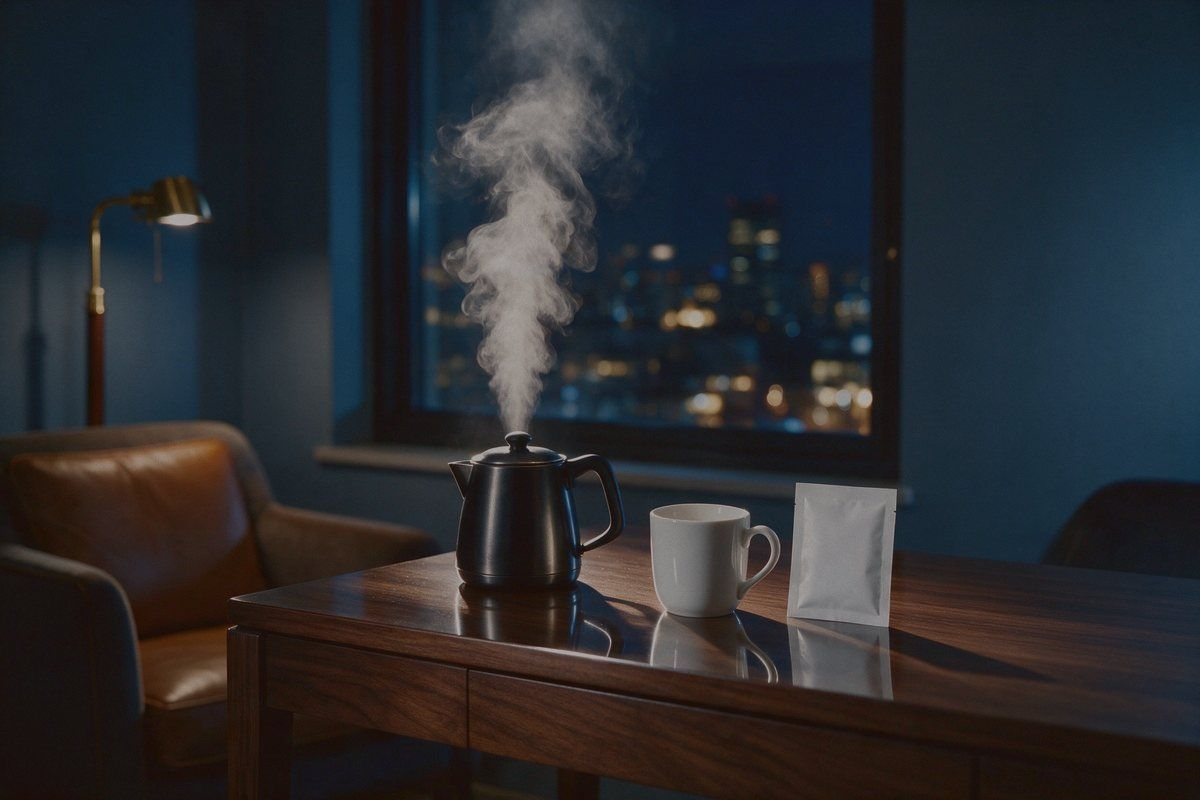
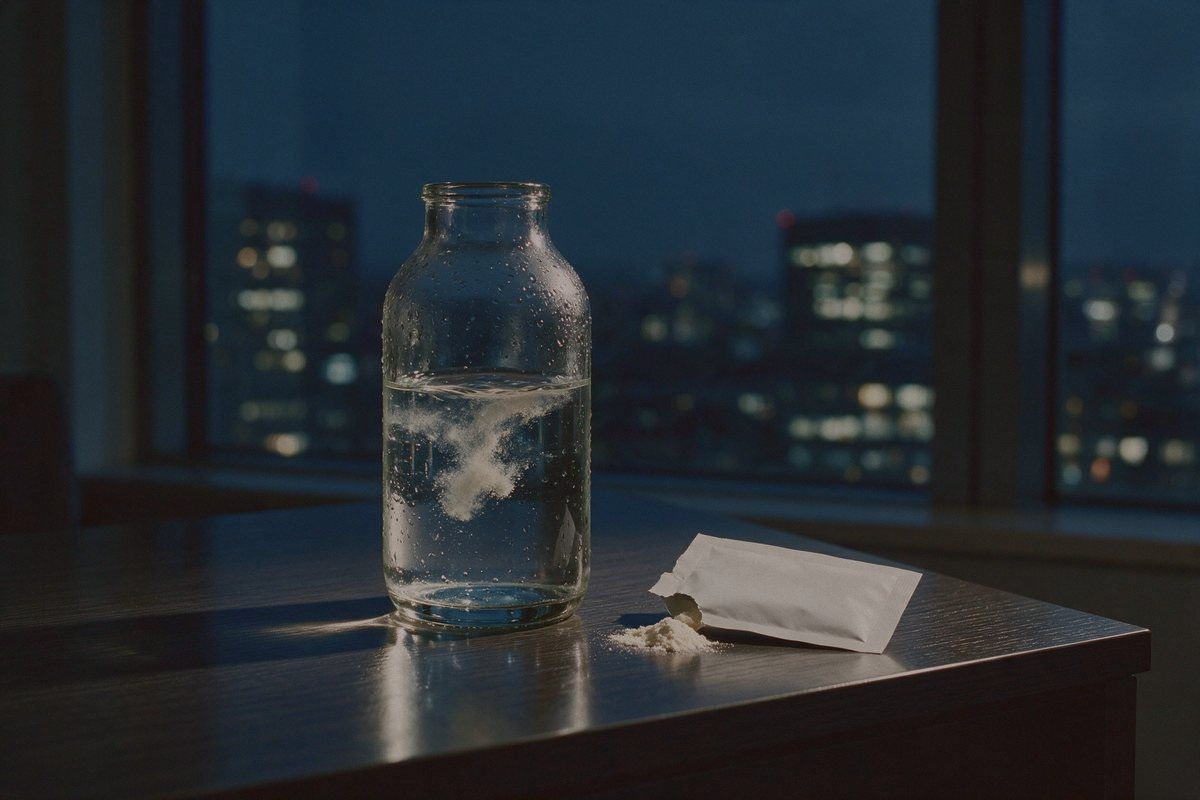
Protein does not need hot water. Remove the kettle and everything behind it
Namrata caught a product error, not a design one. Whey isolate clumps and
denatures in hot water; protein mixes into cold water, milk or a smoothie. A
kettle in a protein section tells a category buyer we do not understand our own
product, which is an expensive thing to say on a page arguing that we own the
manufacturing.

The kettle image is replaced with a bottle of cold water and a torn sachet, the
powder dissolving. The nurse on the long shift is now shaking a water bottle
rather than pouring into a paper cup, which read as coffee.

The copy had the same fault in three more places. A kettle and a mug is the
whole preparation is now a bottle of water, no kitchen, no blender, no shaker,
ten seconds, which is both true and a better claim than the one it replaces.
The unflavoured SKU disappeared into coffee, oats or a smoothie and now
disappears into cold water, milk or a smoothie. The Coffee SKU is Cold brew.

Swept the whole document for kettle, hot water, boiling and steam: none left.

diff --git a/index.html b/index.html
@@ -889,7 +889,7 @@ table.t tr.hi td{font-weight:600; color:var(--ink)}
       <div class="arc"><img loading="lazy" decoding="async" src="img/ms-carry-1.jpg" alt="A sachet slipped into a pocket"></div>
     </div>
     <div class="arccap">
-      <div><b>A kettle and a mug</b>That is the whole preparation.</div>
+      <div><b>A bottle of water</b>No kitchen, no blender, no shaker. Ten seconds.</div>
       <div><b>The bag</b>A tub has never once been packed into one.</div>
       <div><b>Pocket</b>The whole idea.</div>
     </div>
@@ -903,10 +903,10 @@ table.t tr.hi td{font-weight:600; color:var(--ink)}
           <p class="p" style="margin-top:8px">Whey isolate across four, one plant blend to open the dairy-free shopper without needing a second brand.</p>
           <table class="t" style="margin-top:16px">
             <tr><th style="width:26%">SKU</th><th style="width:24%">Base</th><th>The occasion it exists for</th></tr>
-            <tr><td><b>Unflavoured</b></td><td>Whey isolate</td><td>Disappears into coffee, oats or a smoothie</td></tr>
+            <tr><td><b>Unflavoured</b></td><td>Whey isolate</td><td>Disappears into cold water, milk or a smoothie</td></tr>
             <tr class="hi"><td><b>Chocolate</b></td><td>Whey isolate</td><td>The volume SKU and the first purchase</td></tr>
             <tr><td><b>Vanilla</b></td><td>Whey isolate</td><td>The mixer, and the base the line grows from</td></tr>
-            <tr><td><b>Coffee</b></td><td>Whey isolate</td><td>The 7am serving no tub has ever been present for</td></tr>
+            <tr><td><b>Cold brew</b></td><td>Whey isolate</td><td>The 7am serving no tub has ever been present for</td></tr>
             <tr><td><b>Plant</b></td><td>Plant blend</td><td>Opens dairy-free without a second brand</td></tr>
           </table>
         </div>
